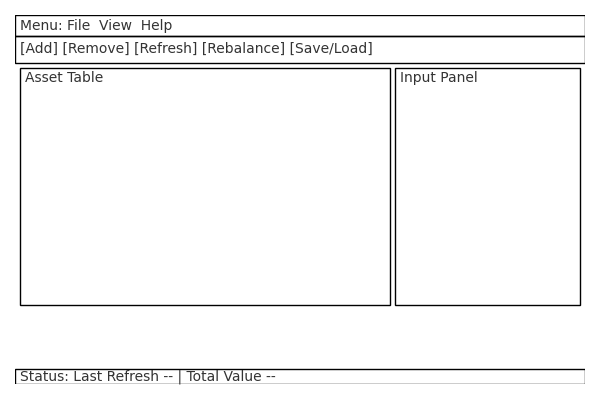
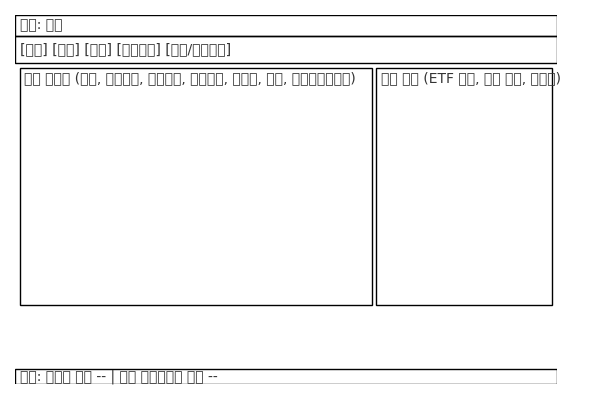
목록 수정 및 UI 변경

diff --git a/doc/ui/UI_skeleton.py b/doc/ui/UI_skeleton.py
@@ -4,56 +4,56 @@ from tkinter import ttk
 class PortfolioAppUI(tk.Tk):
     def __init__(self):
         super().__init__()
-        self.title("Dividend ETF Portfolio Manager")
+        self.title("배당형 ETF 포트폴리오 관리")
         self.geometry("1200x700")
 
-        # Menu Bar
+        # 메뉴 바
         menubar = tk.Menu(self)
         file_menu = tk.Menu(menubar, tearoff=0)
-        file_menu.add_command(label="Save")
-        file_menu.add_command(label="Load")
+        file_menu.add_command(label="저장")
+        file_menu.add_command(label="불러오기")
         file_menu.add_separator()
-        file_menu.add_command(label="Exit", command=self.quit)
-        menubar.add_cascade(label="File", menu=file_menu)
+        file_menu.add_command(label="종료", command=self.quit)
+        menubar.add_cascade(label="파일", menu=file_menu)
         self.config(menu=menubar)
 
-        # Toolbar
+        # 툴바
         toolbar = tk.Frame(self, bd=1, relief=tk.RAISED)
-        for text in ["Add", "Remove", "Refresh", "Rebalance", "Save/Load"]:
+        for text in ["추가", "제거", "갱신", "리밸런싱", "저장/불러오기"]:
             btn = tk.Button(toolbar, text=text)
             btn.pack(side=tk.LEFT, padx=2, pady=2)
         toolbar.pack(side=tk.TOP, fill=tk.X)
 
-        # Main frames
+        # 메인 프레임
         main_frame = tk.Frame(self)
         main_frame.pack(fill=tk.BOTH, expand=True, padx=10, pady=10)
 
-        # Asset table
+        # 자산 테이블
         table_frame = tk.Frame(main_frame)
         table_frame.pack(side=tk.LEFT, fill=tk.BOTH, expand=True)
-        columns = ("Ticker", "Target%", "Shares", "AvgCost", "Price", "Value", "Gain%", "Yield%")
+        columns = ("티커", "목표비중(%)", "보유수량", "매입단가", "현재가", "손익(%)", "연간배당수익률(%)")
         tree = ttk.Treeview(table_frame, columns=columns, show="headings")
         for col in columns:
             tree.heading(col, text=col)
-            tree.column(col, width=100)
+            tree.column(col, width=120)
         tree.pack(fill=tk.BOTH, expand=True)
 
-        # Input panel
+        # 입력 패널
         input_frame = tk.Frame(main_frame, width=300)
         input_frame.pack(side=tk.RIGHT, fill=tk.Y)
-        fields = [("ETF Ticker", ""), ("Avg. Cost", ""), ("Deposit", "")]
+        fields = [("ETF 티커", ""), ("매입 단가", ""), ("입금액", "")]
         for label, _ in fields:
             row = tk.Frame(input_frame)
-            tk.Label(row, text=label, width=15, anchor='w').pack(side=tk.LEFT)
+            tk.Label(row, text=label, width=12, anchor='w').pack(side=tk.LEFT)
             tk.Entry(row).pack(side=tk.RIGHT, fill=tk.X, expand=True)
             row.pack(fill=tk.X, pady=5)
         btn_frame = tk.Frame(input_frame)
-        for btext in ["Add", "Update", "Rebalance"]:
+        for btext in ["추가", "업데이트", "리밸런싱"]:
             tk.Button(btn_frame, text=btext).pack(side=tk.LEFT, padx=5, pady=10)
         btn_frame.pack()
 
-        # Status bar
-        status = tk.Label(self, text="Last Refresh: -- | Total Value: --", bd=1, relief=tk.SUNKEN, anchor=tk.W)
+        # 상태 표시줄
+        status = tk.Label(self, text="마지막 갱신: -- | 연간 배당수익률 평균: --", bd=1, relief=tk.SUNKEN, anchor=tk.W)
         status.pack(side=tk.BOTTOM, fill=tk.X)
 
 if __name__ == "__main__":

diff --git a/doc/specs/SRS.md b/doc/specs/SRS.md
@@ -9,6 +9,7 @@
 - 포트폴리오를 표 형태로 표시하는 테이블 뷰
 - 설정 입력을 위한 패널(ETF 추가/삭제, 수량/단가 입력, 입금 금액 입력)
 - 주요 동작 버튼(저장, 불러오기, 갱신, 리밸런싱)
+- 포트폴리오 목록의 종목을 클릭하여 특정 필드를 편집할 수 있는 인라인 편집 기능
 
 ### 2.2 하드웨어 인터페이스
 - 일반 PC 또는 노트북 환경
@@ -47,6 +48,11 @@
 - 설명: 상태 자동 저장 및 복구
 - 입력: 애플리케이션 시작/종료 이벤트
 - 출력: 복원된 포트폴리오 상태
+
+### 3.6 종목 클릭 편집 기능
+- 설명: 포트폴리오 목록에서 특정 종목을 클릭하여 보유 수량(shares), 평균 단가(avg cost), 목표 비중(weight)을 직접 수정할 수 있어야 한다.
+- 입력: 사용자 클릭 후 수정된 shares, avg cost, weight 값
+- 출력: 수정된 값이 UI에 즉시 반영되고 내부 데이터가 업데이트되어 저장되어야 한다.
 
 ## 4. 성능 요구사항
 - 최대 50개의 ETF에 대해 동작 시 성능 저하 없이 처리

diff --git a/doc/specs/URS.md b/doc/specs/URS.md
@@ -13,11 +13,13 @@
 - 실시간 시세 및 배당 수익률 갱신 및 표시
 - 입금 후 자동 리밸런싱 계산
 - 설정 및 포트폴리오 상태 자동 저장/불러오기
+- **종목 클릭 시 보유 수량(shares), 평균 단가(avg cost), 목표 비중(weight) 수정 기능 제공**
 
 ## 2. 기능 요구사항
 1. **포트폴리오 구성**
    - FR1.1: 사용자는 ETF 티커를 추가/삭제할 수 있어야 한다.
    - FR1.2: 사용자는 각 ETF의 목표 배분 비율(%)을 설정할 수 있어야 한다.
+   - FR1.3: 사용자는 포트폴리오 목록에서 원하는 종목을 클릭하여 보유 수량(shares), 평균 단가(avg cost), 목표 비중(weight)을 즉시 수정할 수 있어야 한다.
 2. **거래 내역 기록**
    - FR2.1: 사용자는 보유 수량 및 평균 매입 단가를 입력할 수 있어야 한다.
    - FR2.2: 사용자는 추가 매수 시 보유량이 업데이트되어야 한다.
